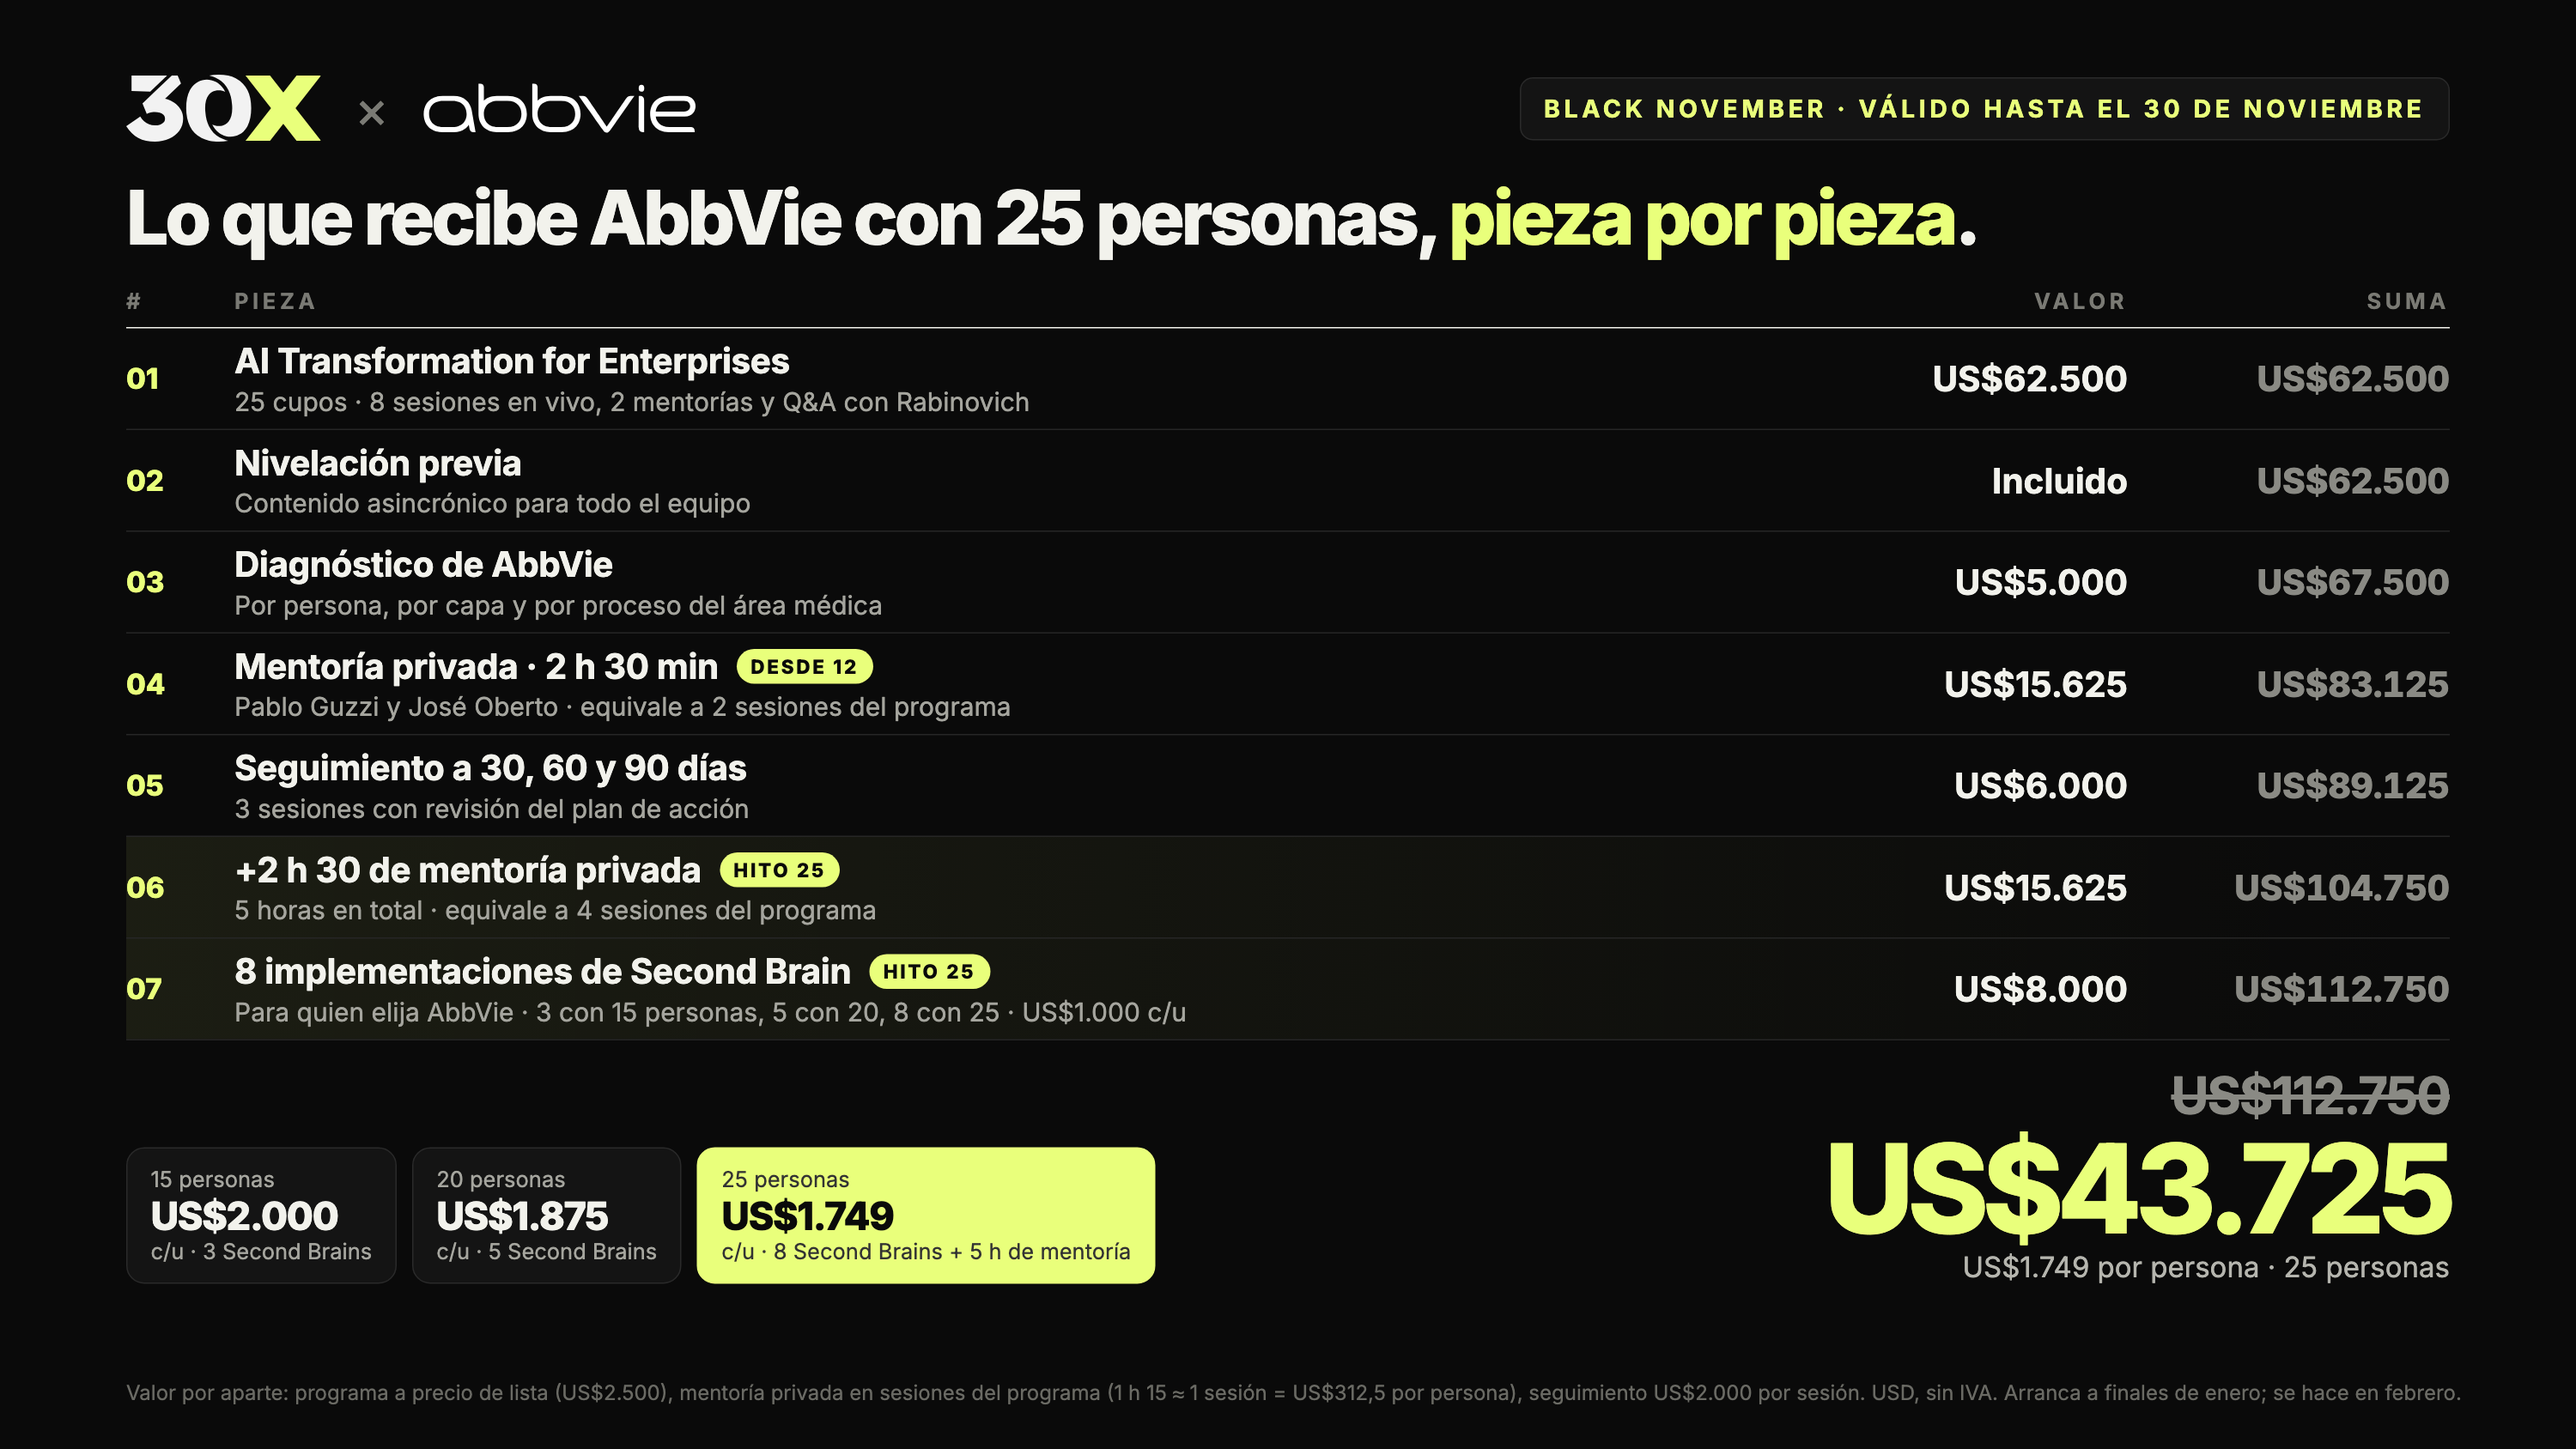
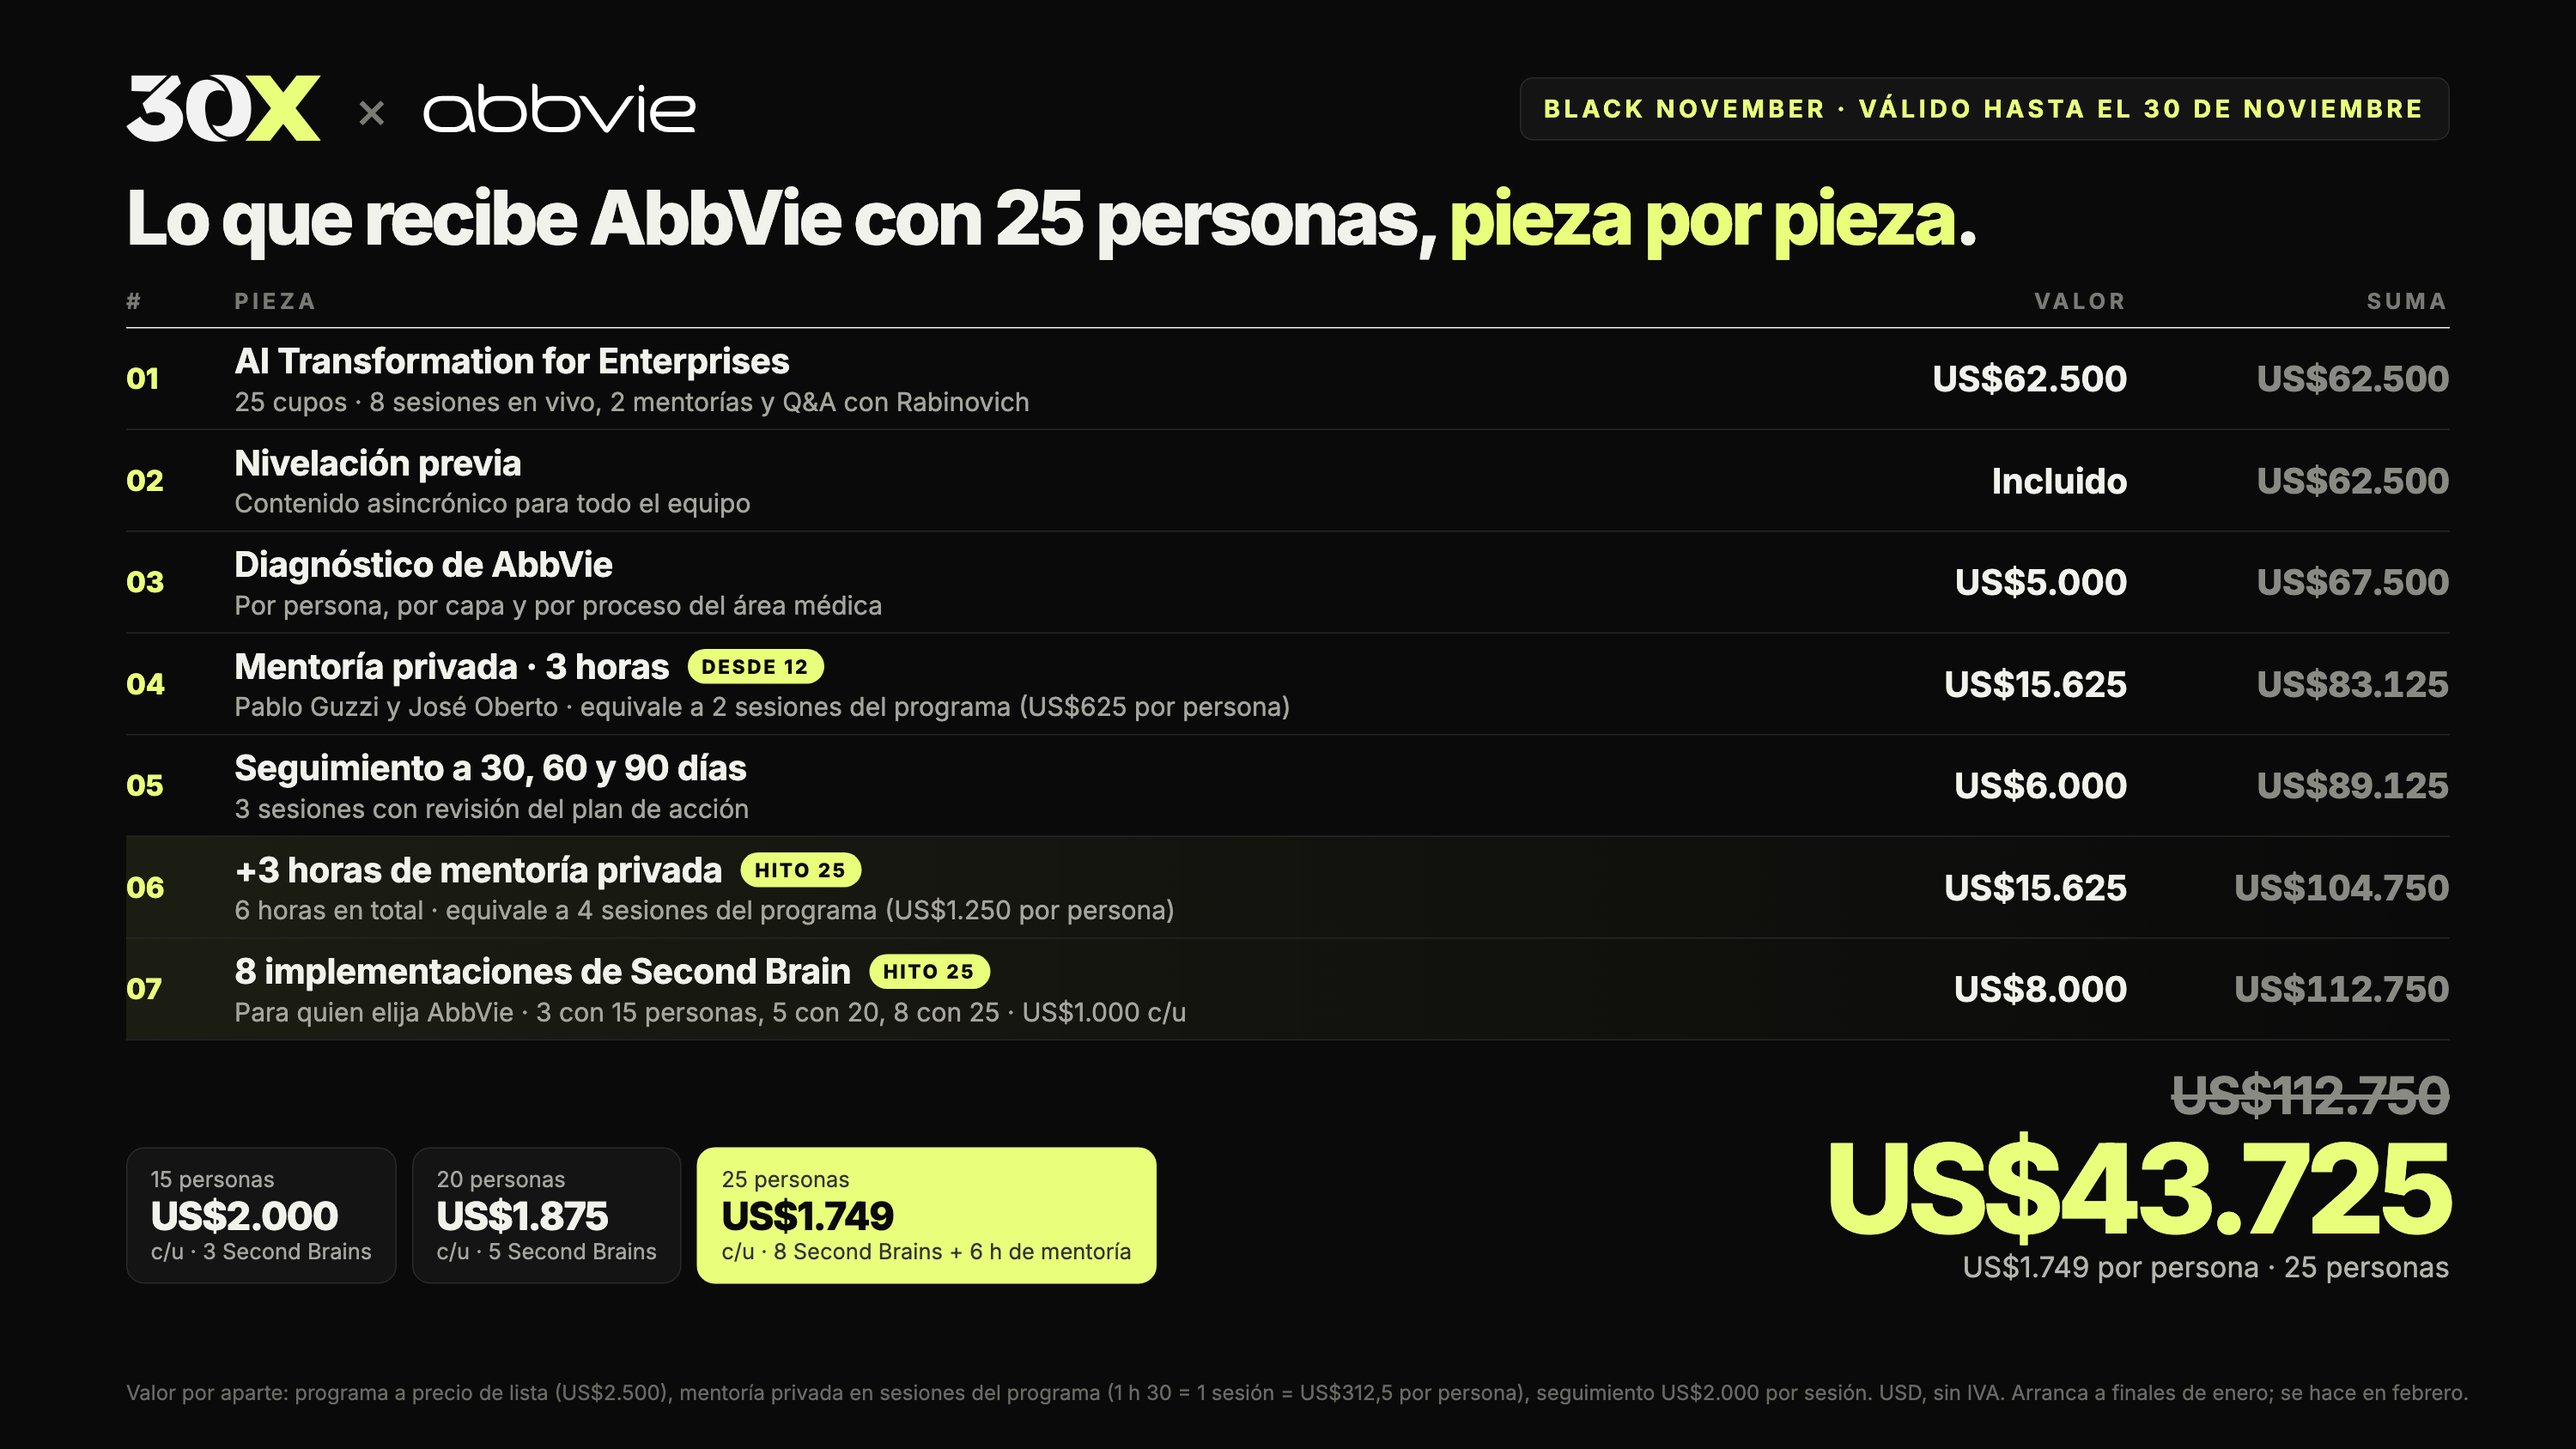
Mentoría privada: 3 horas (2 sesiones) y 6 horas (4 sesiones)
Claude-Session: https://claude.ai/code/session_0195TjmjBYATRa9EjcLAtygS

diff --git a/index.html b/index.html
@@ -55,14 +55,14 @@ tr.on td{color:var(--l);font-weight:700}
   <div class="st"><span>Valor de todo lo incluido</span><b id="val"></b></div>
  </div>
  <div class="ms"><div class="tr"><i id="fill"></i></div>
-  <div class="hs"><div class="h" id="h12"><b>12</b><span>Programa completo + 2 h 30 de mentoría</span></div><div class="h" id="h15"><b>15</b><span>3 Second Brains</span></div><div class="h" id="h20"><b>20</b><span>5 Second Brains</span></div><div class="h" id="h25"><b>25</b><span>8 Second Brains + 2 h 30 más</span></div></div></div>
+  <div class="hs"><div class="h" id="h12"><b>12</b><span>Programa completo + 3 h de mentoría</span></div><div class="h" id="h15"><b>15</b><span>3 Second Brains</span></div><div class="h" id="h20"><b>20</b><span>5 Second Brains</span></div><div class="h" id="h25"><b>25</b><span>8 Second Brains + 6 h de mentoría</span></div></div></div>
  <div id="bon"></div>
  <ul id="inc"></ul>
  <p class="nx" id="nx"></p>
 </div>
 <div class="box"><div class="k" style="color:#B5B5AE">Referencia</div>
 <table><thead><tr><th>Participantes</th><th>Por persona</th><th>Total</th><th>Mentoría · Second Brains</th></tr></thead><tbody id="tb"></tbody></table></div>
-<p class="f">Valores en dólares, sin IVA; facturados en pesos a la TRM del día de emisión. El valor de lo incluido suma cada pieza por aparte: el programa a precio de lista, el diagnóstico (USD 5.000), la mentoría privada (valorada en sesiones del programa: 1 h 15 min ≈ 1 sesión = USD 312,5 por persona), el seguimiento 30-60-90 con revisión del plan de acción (3 sesiones a USD 2.000) y las implementaciones de Second Brain que se desbloquean (USD 1.000 cada una).</p>
+<p class="f">Valores en dólares, sin IVA; facturados en pesos a la TRM del día de emisión. El valor de lo incluido suma cada pieza por aparte: el programa a precio de lista, el diagnóstico (USD 5.000), la mentoría privada (valorada en sesiones del programa: 1 h 30 min = 1 sesión = USD 312,5 por persona; 3 horas = USD 625 por persona), el seguimiento 30-60-90 con revisión del plan de acción (3 sesiones a USD 2.000) y las implementaciones de Second Brain que se desbloquean (USD 1.000 cada una).</p>
 </main>
 <script>
 const f=v=>'USD '+Math.round(v).toLocaleString('es-CO');
@@ -72,9 +72,9 @@ const valor=n=>n*2500+5000+ses(n)*n*312.5+6000+sbn(n)*1000;
 function draw(n){n=+n;document.getElementById('n').textContent=n;
  const p=pp(n),t=n*p;document.getElementById('pp').textContent=f(p);document.getElementById('tot').textContent=f(t);
  document.getElementById('ah').textContent=f(n*2500-t);document.getElementById('val').textContent=f(valor(n));
- document.getElementById('bon').innerHTML=sbn(n)?`<span class="bono">Desbloqueado: ${sbn(n)} implementaciones de Second Brain${n>=25?' + 2 h 30 más de mentoría privada':''}</span>`:'';document.getElementById('fill').style.width=((n-12)/13*100)+'%';[12,15,20,25].forEach(h=>document.getElementById('h'+h).classList.toggle('on',n>=h));
- document.getElementById('inc').innerHTML=['Nivelación previa para todo el equipo','Diagnóstico de AbbVie, por capa y por proceso','AI Transformation: 8 sesiones en vivo, 2 mentorías grupales y Q&A con Daniel Rabinovich',(n>=25?'5 horas':'2 h 30 min')+' de mentoría privada con Pablo Guzzi y José Oberto (equivale a '+ses(n)+' sesiones del programa)','Seguimiento a 30, 60 y 90 días con el director de AI y un mentor'].concat(sbn(n)?[sbn(n)+' implementaciones de Second Brain, para quien elija AbbVie']:[]).map(x=>'<li>'+x+'</li>').join('');
- const H=[[15,'3 implementaciones de Second Brain'],[20,'5 implementaciones de Second Brain'],[25,'8 Second Brains, 2 h 30 más de mentoría privada y USD 1.749 por persona']],nh=H.find(([h])=>n<h);document.getElementById('nx').innerHTML=nh?`${nh[0]-n===1?'Falta':'Faltan'} <b>${nh[0]-n}</b> ${nh[0]-n===1?'persona':'personas'} para el siguiente hito: <b>${nh[1]}</b>.`:'Con 25 tienen el mejor precio de la tabla y todos los bonos desbloqueados.';
- document.getElementById('tb').innerHTML=[12,15,18,20,22,25].map(m=>`<tr class="${m===n?'on':''}"><td>${m}</td><td>${f(pp(m))}</td><td>${f(m*pp(m))}</td><td>${m>=25?'5 h':'2 h 30'}${sbn(m)?' · '+sbn(m)+' Second Brains':''}</td></tr>`).join('')}
+ document.getElementById('bon').innerHTML=sbn(n)?`<span class="bono">Desbloqueado: ${sbn(n)} implementaciones de Second Brain${n>=25?' + la mentoría privada se duplica a 6 horas':''}</span>`:'';document.getElementById('fill').style.width=((n-12)/13*100)+'%';[12,15,20,25].forEach(h=>document.getElementById('h'+h).classList.toggle('on',n>=h));
+ document.getElementById('inc').innerHTML=['Nivelación previa para todo el equipo','Diagnóstico de AbbVie, por capa y por proceso','AI Transformation: 8 sesiones en vivo, 2 mentorías grupales y Q&A con Daniel Rabinovich',(n>=25?'6 horas':'3 horas')+' de mentoría privada con Pablo Guzzi y José Oberto (equivale a '+ses(n)+' sesiones del programa, USD '+(n>=25?'1.250':'625')+' por persona)','Seguimiento a 30, 60 y 90 días con el director de AI y un mentor'].concat(sbn(n)?[sbn(n)+' implementaciones de Second Brain, para quien elija AbbVie']:[]).map(x=>'<li>'+x+'</li>').join('');
+ const H=[[15,'3 implementaciones de Second Brain'],[20,'5 implementaciones de Second Brain'],[25,'8 Second Brains, 6 horas de mentoría privada y USD 1.749 por persona']],nh=H.find(([h])=>n<h);document.getElementById('nx').innerHTML=nh?`${nh[0]-n===1?'Falta':'Faltan'} <b>${nh[0]-n}</b> ${nh[0]-n===1?'persona':'personas'} para el siguiente hito: <b>${nh[1]}</b>.`:'Con 25 tienen el mejor precio de la tabla y todos los bonos desbloqueados.';
+ document.getElementById('tb').innerHTML=[12,15,18,20,22,25].map(m=>`<tr class="${m===n?'on':''}"><td>${m}</td><td>${f(pp(m))}</td><td>${f(m*pp(m))}</td><td>${m>=25?'6 h':'3 h'}${sbn(m)?' · '+sbn(m)+' Second Brains':''}</td></tr>`).join('')}
 const r=document.getElementById('r');r.addEventListener('input',e=>draw(e.target.value));draw(15);
 </script></body></html>
